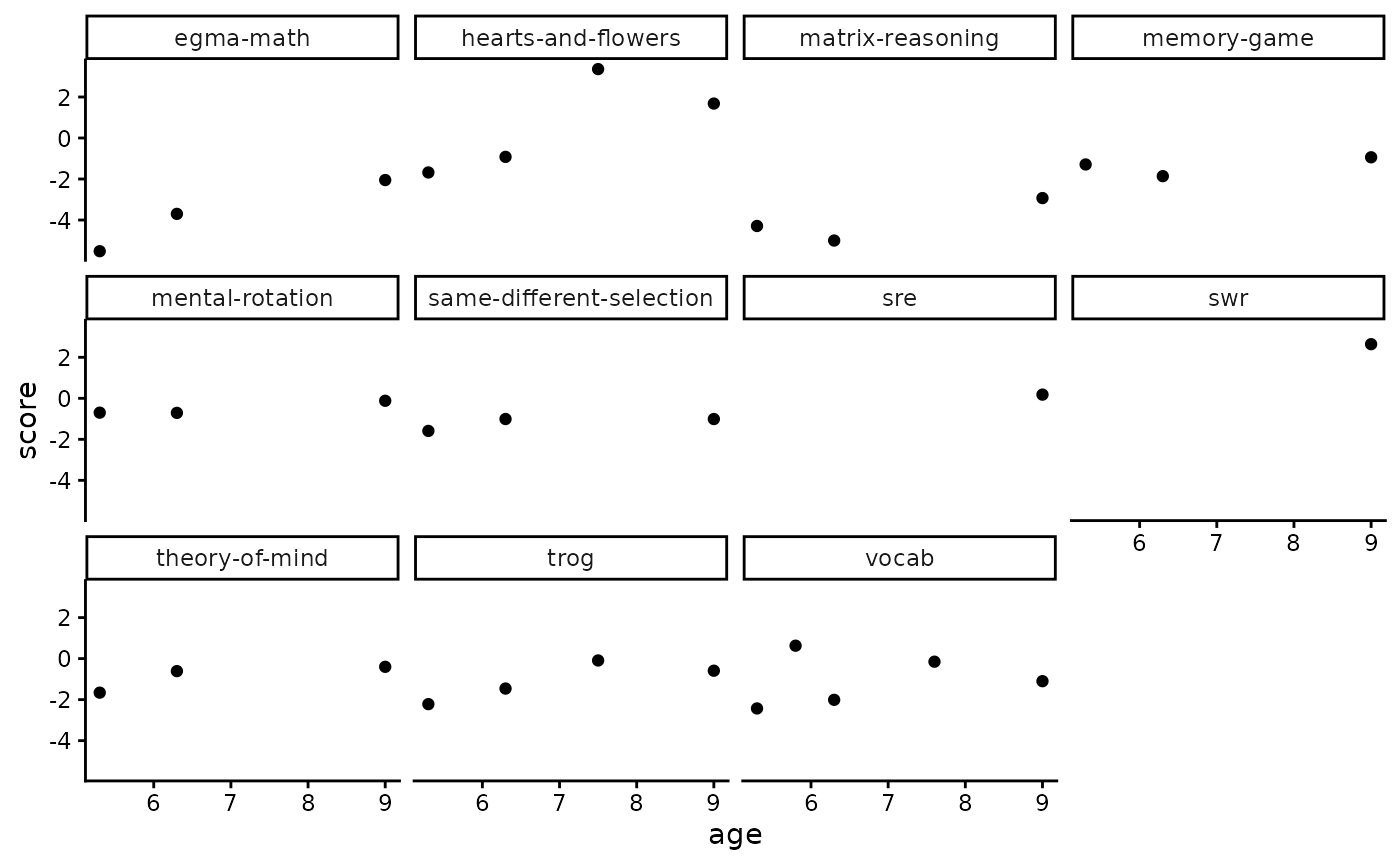
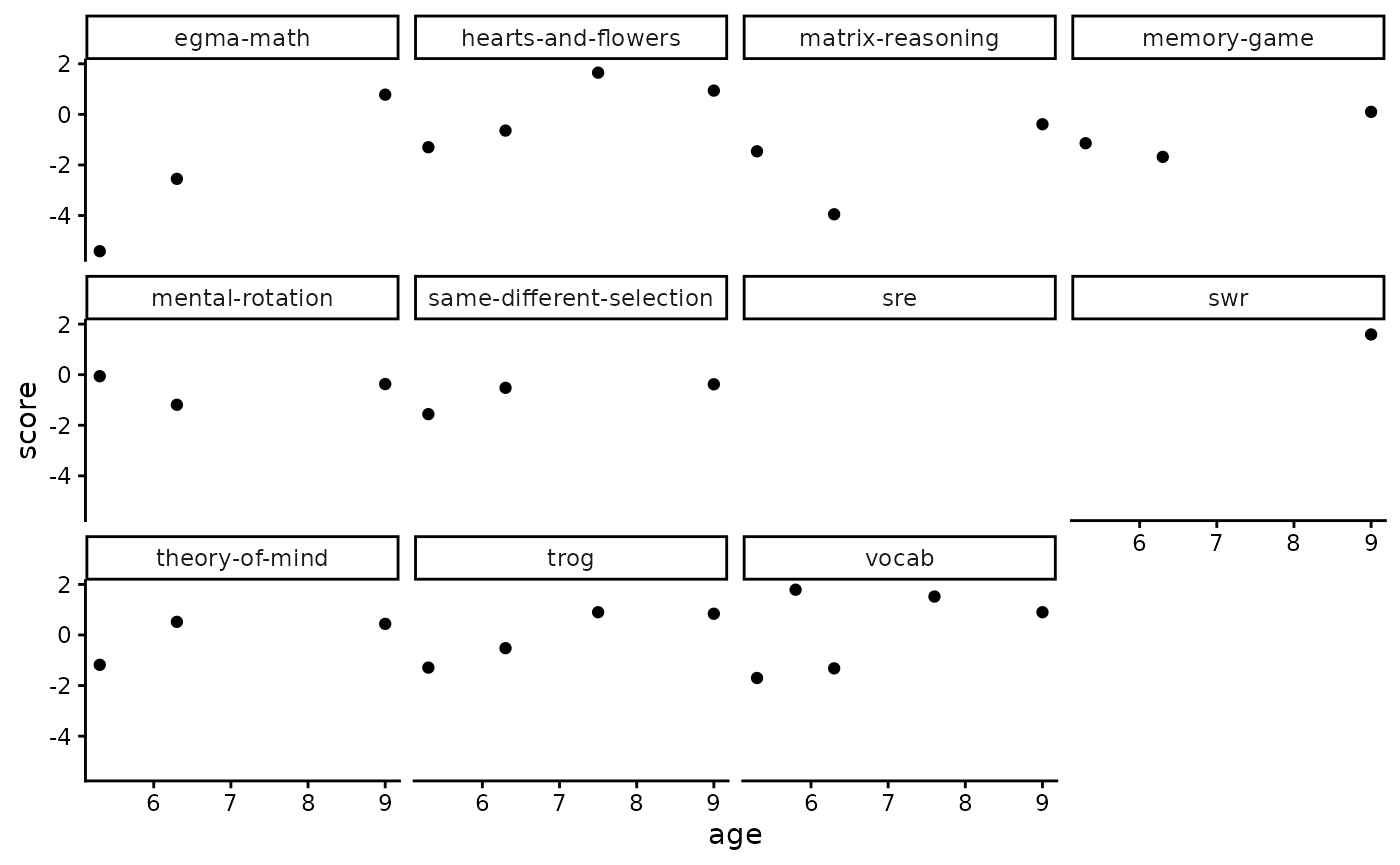
Deploying to gh-pages from @ levante-framework/levante-r@ceba726d68ee0c61f230208329d79ff890a2741c 🚀

diff --git a/reference/get_parameters.html b/reference/get_parameters.html
@@ -1,0 +1,90 @@
+<!DOCTYPE html>
+<!-- Generated by pkgdown: do not edit by hand --><html lang="en"><head><meta http-equiv="Content-Type" content="text/html; charset=UTF-8"><meta charset="utf-8"><meta http-equiv="X-UA-Compatible" content="IE=edge"><meta name="viewport" content="width=device-width, initial-scale=1, shrink-to-fit=no"><title>Get item parameters — get_parameters • levante</title><script src="../deps/jquery-3.6.0/jquery-3.6.0.min.js"></script><meta name="viewport" content="width=device-width, initial-scale=1, shrink-to-fit=no"><link href="../deps/bootstrap-5.3.8/bootstrap.min.css" rel="stylesheet"><script src="../deps/bootstrap-5.3.8/bootstrap.bundle.min.js"></script><link href="../deps/font-awesome-6.5.2/css/all.min.css" rel="stylesheet"><link href="../deps/font-awesome-6.5.2/css/v4-shims.min.css" rel="stylesheet"><script src="../deps/headroom-0.11.0/headroom.min.js"></script><script src="../deps/headroom-0.11.0/jQuery.headroom.min.js"></script><script src="../deps/bootstrap-toc-1.0.1/bootstrap-toc.min.js"></script><script src="../deps/clipboard.js-2.0.11/clipboard.min.js"></script><script src="../deps/search-1.0.0/autocomplete.jquery.min.js"></script><script src="../deps/search-1.0.0/fuse.min.js"></script><script src="../deps/search-1.0.0/mark.min.js"></script><!-- pkgdown --><script src="../pkgdown.js"></script><meta property="og:title" content="Get item parameters — get_parameters"><meta name="description" content="get_parameters() returns information about the item IRT parameters that were used for creating scores. See the rlevante documentation for more information about how to access LEVANTE datasets and codebooks."><meta property="og:description" content="get_parameters() returns information about the item IRT parameters that were used for creating scores. See the rlevante documentation for more information about how to access LEVANTE datasets and codebooks."></head><body>
+    <a href="#main" class="visually-hidden-focusable">Skip to contents</a>
+
+
+    <nav class="navbar navbar-expand-lg fixed-top bg-light" data-bs-theme="light" aria-label="Site navigation"><div class="container">
+
+    <a class="navbar-brand me-2" href="../index.html">levante</a>
+
+    <small class="nav-text text-muted me-auto" data-bs-toggle="tooltip" data-bs-placement="bottom" title="">0.1.0.9000</small>
+
+
+    <button class="navbar-toggler" type="button" data-bs-toggle="collapse" data-bs-target="#navbar" aria-controls="navbar" aria-expanded="false" aria-label="Toggle navigation">
+      <span class="navbar-toggler-icon"></span>
+    </button>
+
+    <div id="navbar" class="collapse navbar-collapse ms-3">
+      <ul class="navbar-nav me-auto"><li class="active nav-item"><a class="nav-link" href="../reference/index.html">Reference</a></li>
+<li class="nav-item dropdown">
+  <button class="nav-link dropdown-toggle" type="button" id="dropdown-articles" data-bs-toggle="dropdown" aria-expanded="false" aria-haspopup="true">Articles</button>
+  <ul class="dropdown-menu" aria-labelledby="dropdown-articles"><li><a class="dropdown-item" href="../articles/levante_walkthrough.html">levante package walkthrough</a></li>
+  </ul></li>
+      </ul><ul class="navbar-nav"><li class="nav-item"><form class="form-inline" role="search">
+ <input class="form-control" type="search" name="search-input" id="search-input" autocomplete="off" aria-label="Search site" placeholder="Search for" data-search-index="../search.json"></form></li>
+      </ul></div>
+
+
+  </div>
+</nav><div class="container template-reference-topic">
+<div class="row">
+  <main id="main" class="col-md-9"><div class="page-header">
+
+      <h1>Get item parameters</h1>
+
+      <div class="d-none name"><code>get_parameters.Rd</code></div>
+    </div>
+
+    <div class="ref-description section level2">
+    <p><code>get_parameters()</code> returns information about the item IRT parameters that were used for creating scores. See the <a href="https://levante-framework.github.io/rlevante/index.html" class="external-link">rlevante documentation</a> for more information about how to access LEVANTE datasets and codebooks.</p>
+    </div>
+
+    <div class="section level2">
+    <h2 id="ref-usage">Usage<a class="anchor" aria-label="anchor" href="#ref-usage"></a></h2>
+    <div class="sourceCode"><pre class="sourceCode r"><code><span><span class="fu">get_parameters</span><span class="op">(</span><span class="va">data_source</span>, version <span class="op">=</span> <span class="st">"current"</span><span class="op">)</span></span></code></pre></div>
+    </div>
+
+    <div class="section level2">
+    <h2 id="arguments">Arguments<a class="anchor" aria-label="anchor" href="#arguments"></a></h2>
+
+
+<dl><dt id="arg-data-source">data_source<a class="anchor" aria-label="anchor" href="#arg-data-source"></a></dt>
+<dd><p>Name of Redivis dataset</p></dd>
+
+
+<dt id="arg-version">version<a class="anchor" aria-label="anchor" href="#arg-version"></a></dt>
+<dd><p>Version of Redivis dataset</p></dd>
+
+</dl></div>
+    <div class="section level2">
+    <h2 id="value">Value<a class="anchor" aria-label="anchor" href="#value"></a></h2>
+    <p>A data frame where each row is an item</p>
+    </div>
+
+    <div class="section level2">
+    <h2 id="ref-examples">Examples<a class="anchor" aria-label="anchor" href="#ref-examples"></a></h2>
+    <div class="sourceCode"><pre class="sourceCode r"><code><span class="r-in"><span><span class="kw">if</span> <span class="op">(</span><span class="cn">FALSE</span><span class="op">)</span> <span class="op">{</span> <span class="co"># \dontrun{</span></span></span>
+<span class="r-in"><span><span class="va">parameters</span> <span class="op">&lt;-</span> <span class="fu">get_parameters</span><span class="op">(</span>data_source <span class="op">=</span> <span class="st">"levante_data_example:d0rt"</span>, version <span class="op">=</span> <span class="st">"current"</span><span class="op">)</span></span></span>
+<span class="r-in"><span><span class="op">}</span> <span class="co"># }</span></span></span>
+</code></pre></div>
+    </div>
+  </main><aside class="col-md-3"><nav id="toc" aria-label="Table of contents"><h2>On this page</h2>
+    </nav></aside></div>
+
+
+    <footer><div class="pkgdown-footer-left">
+  <p>Developed by Michael Frank, Mika Braginsky.</p>
+</div>
+
+<div class="pkgdown-footer-right">
+  <p>Site built with <a href="https://pkgdown.r-lib.org/" class="external-link">pkgdown</a> 2.2.0.</p>
+</div>
+
+    </footer></div>
+
+
+
+
+
+  </body></html>
+

diff --git a/articles/levante_walkthrough.html b/articles/levante_walkthrough.html
@@ -169,16 +169,16 @@ authentication.</p>
 <span><span class="co">#&gt; --Fetching table participants</span></span>
 <span></span>
 <span><span class="co"># Now let's do some preliminary checks on the participants data</span></span>
-<span><span class="va">participants</span> <span class="op">|&gt;</span> <span class="fu"><a href="https://dplyr.tidyverse.org/reference/count.html" class="external-link">count</a></span><span class="op">(</span><span class="va">site</span>, sort <span class="op">=</span> <span class="cn">TRUE</span><span class="op">)</span> <span class="co"># returns the number of participants from each site — the levante-data-example and private site data releases only contain data from a single site, but the public data releases contain many sites/datasets stapled together</span></span>
+<span><span class="va">participants</span> <span class="op">|&gt;</span> <span class="fu"><a href="https://dplyr.tidyverse.org/reference/count.html" class="external-link">count</a></span><span class="op">(</span><span class="va">dataset</span>, sort <span class="op">=</span> <span class="cn">TRUE</span><span class="op">)</span> <span class="co"># returns the number of participants from each dataset — the levante-data-example and private dataset data releases only contain data from a single dataset, but the public data releases contain multiple datasets stapled together</span></span>
 <span><span class="co">#&gt; <span style="color: #949494;"># A tibble: 1 × 2</span></span></span>
-<span><span class="co">#&gt;   site                n</span></span>
-<span><span class="co">#&gt;   <span style="color: #949494; font-style: italic;">&lt;chr&gt;</span>           <span style="color: #949494; font-style: italic;">&lt;int&gt;</span></span></span>
-<span><span class="co">#&gt; <span style="color: #BCBCBC;">1</span> pilot_mpieva_de    15</span></span></code></pre></div>
+<span><span class="co">#&gt;   dataset                  n</span></span>
+<span><span class="co">#&gt;   <span style="color: #949494; font-style: italic;">&lt;chr&gt;</span>                <span style="color: #949494; font-style: italic;">&lt;int&gt;</span></span></span>
+<span><span class="co">#&gt; <span style="color: #BCBCBC;">1</span> pilot_mpieva_de_main    15</span></span></code></pre></div>
 <p>Use <code><a href="../reference/get_scores.html">get_scores()</a></code> to obtain scored cognitive task
 data.</p>
 <div class="sourceCode" id="cb3"><pre class="downlit sourceCode r">
 <code class="sourceCode R"><span><span class="co"># Pull scored data from Redivis and save it to a data frame called "scores"</span></span>
-<span><span class="va">scores</span> <span class="op">&lt;-</span> <span class="fu"><a href="../reference/get_scores.html">get_scores</a></span><span class="op">(</span>data_source <span class="op">=</span> <span class="st">"levante-data-example:d0rt"</span>, version <span class="op">=</span> <span class="st">"current"</span><span class="op">)</span> </span>
+<span><span class="va">scores</span> <span class="op">&lt;-</span> <span class="fu"><a href="../reference/get_scores.html">get_scores</a></span><span class="op">(</span>data_source <span class="op">=</span> <span class="st">"levante-data-example:d0rt"</span>, version <span class="op">=</span> <span class="st">"current"</span><span class="op">)</span></span>
 <span><span class="co">#&gt; Fetching data for levante-data-example:d0rt</span></span>
 <span><span class="co">#&gt; --Fetching table scores</span></span>
 <span></span>
@@ -202,7 +202,9 @@ data.</p>
 <code class="sourceCode R"><span><span class="co"># This plot returns scores by age fro each task.</span></span>
 <span><span class="fu"><a href="https://ggplot2.tidyverse.org/reference/ggplot.html" class="external-link">ggplot</a></span><span class="op">(</span><span class="va">scores</span>, <span class="fu"><a href="https://ggplot2.tidyverse.org/reference/aes.html" class="external-link">aes</a></span><span class="op">(</span>x <span class="op">=</span> <span class="va">age</span>, y <span class="op">=</span> <span class="va">score</span><span class="op">)</span><span class="op">)</span> <span class="op">+</span></span>
 <span>  <span class="fu"><a href="https://ggplot2.tidyverse.org/reference/facet_wrap.html" class="external-link">facet_wrap</a></span><span class="op">(</span><span class="fu"><a href="https://dplyr.tidyverse.org/reference/vars.html" class="external-link">vars</a></span><span class="op">(</span><span class="va">task_id</span><span class="op">)</span><span class="op">)</span> <span class="op">+</span></span>
-<span>  <span class="fu"><a href="https://ggplot2.tidyverse.org/reference/geom_point.html" class="external-link">geom_point</a></span><span class="op">(</span><span class="op">)</span></span></code></pre></div>
+<span>  <span class="fu"><a href="https://ggplot2.tidyverse.org/reference/geom_point.html" class="external-link">geom_point</a></span><span class="op">(</span><span class="op">)</span></span>
+<span><span class="co">#&gt; Warning: Removed 1 row containing missing values or values outside the scale range</span></span>
+<span><span class="co">#&gt; (`geom_point()`).</span></span></code></pre></div>
 <p><img src="levante_walkthrough_files/figure-html/unnamed-chunk-4-1.png" class="r-plt" alt="" width="700"></p>
 <p>Use <code><a href="../reference/get_trials.html">get_trials()</a></code> to access trial-level data.</p>
 <div class="sourceCode" id="cb5"><pre class="downlit sourceCode r">
@@ -213,11 +215,11 @@ data.</p>
 <span><span class="co">#&gt; --Fetching table trials</span></span>
 <span></span>
 <span><span class="co"># Now let's do some preliminary checks on the trials data</span></span>
-<span><span class="va">trials</span> <span class="op">|&gt;</span> <span class="fu"><a href="https://dplyr.tidyverse.org/reference/count.html" class="external-link">count</a></span><span class="op">(</span><span class="va">site</span>, sort <span class="op">=</span> <span class="cn">TRUE</span><span class="op">)</span> <span class="co"># returns the number of trials per site</span></span>
+<span><span class="va">trials</span> <span class="op">|&gt;</span> <span class="fu"><a href="https://dplyr.tidyverse.org/reference/count.html" class="external-link">count</a></span><span class="op">(</span><span class="va">dataset</span>, sort <span class="op">=</span> <span class="cn">TRUE</span><span class="op">)</span> <span class="co"># returns the number of trials per dataset</span></span>
 <span><span class="co">#&gt; <span style="color: #949494;"># A tibble: 1 × 2</span></span></span>
-<span><span class="co">#&gt;   site                n</span></span>
-<span><span class="co">#&gt;   <span style="color: #949494; font-style: italic;">&lt;chr&gt;</span>           <span style="color: #949494; font-style: italic;">&lt;int&gt;</span></span></span>
-<span><span class="co">#&gt; <span style="color: #BCBCBC;">1</span> pilot_mpieva_de  <span style="text-decoration: underline;">1</span>320</span></span>
+<span><span class="co">#&gt;   dataset                  n</span></span>
+<span><span class="co">#&gt;   <span style="color: #949494; font-style: italic;">&lt;chr&gt;</span>                <span style="color: #949494; font-style: italic;">&lt;int&gt;</span></span></span>
+<span><span class="co">#&gt; <span style="color: #BCBCBC;">1</span> pilot_mpieva_de_main  <span style="text-decoration: underline;">1</span>323</span></span>
 <span></span>
 <span><span class="va">trials</span> <span class="op">|&gt;</span> <span class="fu"><a href="https://dplyr.tidyverse.org/reference/count.html" class="external-link">count</a></span><span class="op">(</span><span class="va">task_id</span>, sort <span class="op">=</span> <span class="cn">TRUE</span><span class="op">)</span> <span class="co"># returns the number of trials per task</span></span>
 <span><span class="co">#&gt; <span style="color: #949494;"># A tibble: 11 × 2</span></span></span>
@@ -226,9 +228,9 @@ data.</p>
 <span><span class="co">#&gt; <span style="color: #BCBCBC;"> 1</span> vocab                      242</span></span>
 <span><span class="co">#&gt; <span style="color: #BCBCBC;"> 2</span> hearts-and-flowers         236</span></span>
 <span><span class="co">#&gt; <span style="color: #BCBCBC;"> 3</span> trog                       153</span></span>
-<span><span class="co">#&gt; <span style="color: #BCBCBC;"> 4</span> egma-math                  124</span></span>
+<span><span class="co">#&gt; <span style="color: #BCBCBC;"> 4</span> egma-math                  125</span></span>
 <span><span class="co">#&gt; <span style="color: #BCBCBC;"> 5</span> swr                        120</span></span>
-<span><span class="co">#&gt; <span style="color: #BCBCBC;"> 6</span> matrix-reasoning           106</span></span>
+<span><span class="co">#&gt; <span style="color: #BCBCBC;"> 6</span> matrix-reasoning           108</span></span>
 <span><span class="co">#&gt; <span style="color: #BCBCBC;"> 7</span> theory-of-mind             102</span></span>
 <span><span class="co">#&gt; <span style="color: #BCBCBC;"> 8</span> same-different-selection    85</span></span>
 <span><span class="co">#&gt; <span style="color: #BCBCBC;"> 9</span> mental-rotation             68</span></span>
@@ -242,33 +244,34 @@ data.</p>
 <span><span class="co">#&gt; --Fetching table surveys</span></span>
 <span></span>
 <span><span class="co"># Now let's do some preliminary checks on the trials data</span></span>
-<span><span class="va">surveys</span> <span class="op">|&gt;</span> <span class="fu"><a href="https://dplyr.tidyverse.org/reference/count.html" class="external-link">count</a></span><span class="op">(</span><span class="va">site</span>, sort <span class="op">=</span> <span class="cn">TRUE</span><span class="op">)</span> <span class="co"># returns the number of surveys per site</span></span>
+<span><span class="va">surveys</span> <span class="op">|&gt;</span> <span class="fu"><a href="https://dplyr.tidyverse.org/reference/count.html" class="external-link">count</a></span><span class="op">(</span><span class="va">dataset</span>, sort <span class="op">=</span> <span class="cn">TRUE</span><span class="op">)</span> <span class="co"># returns the number of surveys per dataset</span></span>
 <span><span class="co">#&gt; <span style="color: #949494;"># A tibble: 1 × 2</span></span></span>
-<span><span class="co">#&gt;   site                n</span></span>
-<span><span class="co">#&gt;   <span style="color: #949494; font-style: italic;">&lt;chr&gt;</span>           <span style="color: #949494; font-style: italic;">&lt;int&gt;</span></span></span>
-<span><span class="co">#&gt; <span style="color: #BCBCBC;">1</span> pilot_mpieva_de    69</span></span></code></pre></div>
-<p>Use <code><a href="../reference/get_item_parameters.html">get_item_parameters()</a></code> to access the IRT item
-parameters used in LEVANTE scoring.</p>
+<span><span class="co">#&gt;   dataset                  n</span></span>
+<span><span class="co">#&gt;   <span style="color: #949494; font-style: italic;">&lt;chr&gt;</span>                <span style="color: #949494; font-style: italic;">&lt;int&gt;</span></span></span>
+<span><span class="co">#&gt; <span style="color: #BCBCBC;">1</span> pilot_mpieva_de_main    63</span></span></code></pre></div>
+<p>Use <code><a href="../reference/get_parameters.html">get_parameters()</a></code> to access the IRT item parameters
+used in LEVANTE scoring.</p>
 <div class="sourceCode" id="cb7"><pre class="downlit sourceCode r">
 <code class="sourceCode R"><span><span class="co"># Pull up-to-date item parameters from Redivis</span></span>
-<span><span class="va">item_parameters</span> <span class="op">&lt;-</span> <span class="fu"><a href="../reference/get_item_parameters.html">get_item_parameters</a></span><span class="op">(</span><span class="op">)</span></span>
-<span><span class="co">#&gt; Fetching item parameters</span></span>
+<span><span class="va">item_parameters</span> <span class="op">&lt;-</span> <span class="fu"><a href="../reference/get_parameters.html">get_parameters</a></span><span class="op">(</span>data_source <span class="op">=</span> <span class="st">"levante-data-example:d0rt"</span>, version <span class="op">=</span> <span class="st">"current"</span><span class="op">)</span></span>
+<span><span class="co">#&gt; Fetching data for levante-data-example:d0rt</span></span>
+<span><span class="co">#&gt; --Fetching table parameters</span></span>
 <span></span>
-<span><span class="va">item_parameters</span> <span class="op">|&gt;</span> <span class="fu"><a href="https://dplyr.tidyverse.org/reference/count.html" class="external-link">count</a></span><span class="op">(</span><span class="va">item_task</span>, sort <span class="op">=</span> <span class="cn">TRUE</span><span class="op">)</span> <span class="co"># returns the number of parameters per task</span></span>
+<span><span class="va">item_parameters</span> <span class="op">|&gt;</span> <span class="fu"><a href="https://dplyr.tidyverse.org/reference/count.html" class="external-link">count</a></span><span class="op">(</span><span class="va">task_id</span>, sort <span class="op">=</span> <span class="cn">TRUE</span><span class="op">)</span> <span class="co"># returns the number of parameters per task</span></span>
 <span><span class="co">#&gt; <span style="color: #949494;"># A tibble: 11 × 2</span></span></span>
-<span><span class="co">#&gt;    item_task     n</span></span>
-<span><span class="co">#&gt;    <span style="color: #949494; font-style: italic;">&lt;chr&gt;</span>     <span style="color: #949494; font-style: italic;">&lt;int&gt;</span></span></span>
-<span><span class="co">#&gt; <span style="color: #BCBCBC;"> 1</span> swr        <span style="text-decoration: underline;">1</span>383</span></span>
-<span><span class="co">#&gt; <span style="color: #BCBCBC;"> 2</span> vocab       470</span></span>
-<span><span class="co">#&gt; <span style="color: #BCBCBC;"> 3</span> math        359</span></span>
-<span><span class="co">#&gt; <span style="color: #BCBCBC;"> 4</span> tom         171</span></span>
-<span><span class="co">#&gt; <span style="color: #BCBCBC;"> 5</span> matrix      153</span></span>
-<span><span class="co">#&gt; <span style="color: #BCBCBC;"> 6</span> pa          110</span></span>
-<span><span class="co">#&gt; <span style="color: #BCBCBC;"> 7</span> trog         99</span></span>
-<span><span class="co">#&gt; <span style="color: #BCBCBC;"> 8</span> mg           24</span></span>
-<span><span class="co">#&gt; <span style="color: #BCBCBC;"> 9</span> sds          17</span></span>
-<span><span class="co">#&gt; <span style="color: #BCBCBC;">10</span> mrot         12</span></span>
-<span><span class="co">#&gt; <span style="color: #BCBCBC;">11</span> hf           10</span></span></code></pre></div>
+<span><span class="co">#&gt;    task_id                      n</span></span>
+<span><span class="co">#&gt;    <span style="color: #949494; font-style: italic;">&lt;chr&gt;</span>                    <span style="color: #949494; font-style: italic;">&lt;int&gt;</span></span></span>
+<span><span class="co">#&gt; <span style="color: #BCBCBC;"> 1</span> swr                       <span style="text-decoration: underline;">2</span>776</span></span>
+<span><span class="co">#&gt; <span style="color: #BCBCBC;"> 2</span> vocab                      912</span></span>
+<span><span class="co">#&gt; <span style="color: #BCBCBC;"> 3</span> egma-math                  718</span></span>
+<span><span class="co">#&gt; <span style="color: #BCBCBC;"> 4</span> theory-of-mind             398</span></span>
+<span><span class="co">#&gt; <span style="color: #BCBCBC;"> 5</span> matrix-reasoning           302</span></span>
+<span><span class="co">#&gt; <span style="color: #BCBCBC;"> 6</span> pa                         220</span></span>
+<span><span class="co">#&gt; <span style="color: #BCBCBC;"> 7</span> trog                       194</span></span>
+<span><span class="co">#&gt; <span style="color: #BCBCBC;"> 8</span> memory-game                 48</span></span>
+<span><span class="co">#&gt; <span style="color: #BCBCBC;"> 9</span> mental-rotation             40</span></span>
+<span><span class="co">#&gt; <span style="color: #BCBCBC;">10</span> same-different-selection    30</span></span>
+<span><span class="co">#&gt; <span style="color: #BCBCBC;">11</span> hearts-and-flowers          20</span></span></code></pre></div>
 <p>Finally, researchers accessing their own LEVANTE data can use
 <code>get_raw_data()</code> to access additional tables within private
 datasets. <code>get_raw_data()</code> is a general function that can

diff --git a/reference/index.html b/reference/index.html
@@ -45,7 +45,7 @@
 
       <dl><dt>
 
-          <code><a href="get_item_parameters.html">get_item_parameters()</a></code>
+          <code><a href="get_parameters.html">get_parameters()</a></code>
 
         </dt>
         <dd>Get item parameters</dd>

diff --git a/articles/levante_walkthrough.md b/articles/levante_walkthrough.md
@@ -70,11 +70,11 @@ participants <- get_participants(data_source = "levante-data-example:d0rt", vers
 #> --Fetching table participants
 
 # Now let's do some preliminary checks on the participants data
-participants |> count(site, sort = TRUE) # returns the number of participants from each site — the levante-data-example and private site data releases only contain data from a single site, but the public data releases contain many sites/datasets stapled together
+participants |> count(dataset, sort = TRUE) # returns the number of participants from each dataset — the levante-data-example and private dataset data releases only contain data from a single dataset, but the public data releases contain multiple datasets stapled together
 #> # A tibble: 1 × 2
-#>   site                n
-#>   <chr>           <int>
-#> 1 pilot_mpieva_de    15
+#>   dataset                  n
+#>   <chr>                <int>
+#> 1 pilot_mpieva_de_main    15
 ```
 
 Use
@@ -84,7 +84,7 @@ to obtain scored cognitive task data.
 ``` r
 
 # Pull scored data from Redivis and save it to a data frame called "scores"
-scores <- get_scores(data_source = "levante-data-example:d0rt", version = "current") 
+scores <- get_scores(data_source = "levante-data-example:d0rt", version = "current")
 #> Fetching data for levante-data-example:d0rt
 #> --Fetching table scores
 
@@ -112,6 +112,8 @@ scores |> count(task_id, sort = TRUE) # returns the number of scores for each ta
 ggplot(scores, aes(x = age, y = score)) +
   facet_wrap(vars(task_id)) +
   geom_point()
+#> Warning: Removed 1 row containing missing values or values outside the scale range
+#> (`geom_point()`).
 ```
 
 ![](levante_walkthrough_files/figure-html/unnamed-chunk-4-1.png)
@@ -129,11 +131,11 @@ trials <- get_trials(data_source = "levante-data-example:d0rt", version = "curre
 #> --Fetching table trials
 
 # Now let's do some preliminary checks on the trials data
-trials |> count(site, sort = TRUE) # returns the number of trials per site
+trials |> count(dataset, sort = TRUE) # returns the number of trials per dataset
 #> # A tibble: 1 × 2
-#>   site                n
-#>   <chr>           <int>
-#> 1 pilot_mpieva_de  1320
+#>   dataset                  n
+#>   <chr>                <int>
+#> 1 pilot_mpieva_de_main  1323
 
 trials |> count(task_id, sort = TRUE) # returns the number of trials per task
 #> # A tibble: 11 × 2
@@ -142,9 +144,9 @@ trials |> count(task_id, sort = TRUE) # returns the number of trials per task
 #>  1 vocab                      242
 #>  2 hearts-and-flowers         236
 #>  3 trog                       153
-#>  4 egma-math                  124
+#>  4 egma-math                  125
 #>  5 swr                        120
-#>  6 matrix-reasoning           106
+#>  6 matrix-reasoning           108
 #>  7 theory-of-mind             102
 #>  8 same-different-selection    85
 #>  9 mental-rotation             68
@@ -164,38 +166,39 @@ surveys <- get_surveys(data_source = "levante-data-example:d0rt", version = "cur
 #> --Fetching table surveys
 
 # Now let's do some preliminary checks on the trials data
-surveys |> count(site, sort = TRUE) # returns the number of surveys per site
+surveys |> count(dataset, sort = TRUE) # returns the number of surveys per dataset
 #> # A tibble: 1 × 2
-#>   site                n
-#>   <chr>           <int>
-#> 1 pilot_mpieva_de    69
+#>   dataset                  n
+#>   <chr>                <int>
+#> 1 pilot_mpieva_de_main    63
 ```
 
 Use
-[`get_item_parameters()`](https://levante-framework.github.io/levante-r/reference/get_item_parameters.md)
+[`get_parameters()`](https://levante-framework.github.io/levante-r/reference/get_parameters.md)
 to access the IRT item parameters used in LEVANTE scoring.
 
 ``` r
 
 # Pull up-to-date item parameters from Redivis
-item_parameters <- get_item_parameters()
-#> Fetching item parameters
+item_parameters <- get_parameters(data_source = "levante-data-example:d0rt", version = "current")
+#> Fetching data for levante-data-example:d0rt
+#> --Fetching table parameters
 
-item_parameters |> count(item_task, sort = TRUE) # returns the number of parameters per task
+item_parameters |> count(task_id, sort = TRUE) # returns the number of parameters per task
 #> # A tibble: 11 × 2
-#>    item_task     n
-#>    <chr>     <int>
-#>  1 swr        1383
-#>  2 vocab       470
-#>  3 math        359
-#>  4 tom         171
-#>  5 matrix      153
-#>  6 pa          110
-#>  7 trog         99
-#>  8 mg           24
-#>  9 sds          17
-#> 10 mrot         12
-#> 11 hf           10
+#>    task_id                      n
+#>    <chr>                    <int>
+#>  1 swr                       2776
+#>  2 vocab                      912
+#>  3 egma-math                  718
+#>  4 theory-of-mind             398
+#>  5 matrix-reasoning           302
+#>  6 pa                         220
+#>  7 trog                       194
+#>  8 memory-game                 48
+#>  9 mental-rotation             40
+#> 10 same-different-selection    30
+#> 11 hearts-and-flowers          20
 ```
 
 Finally, researchers accessing their own LEVANTE data can use

diff --git a/reference/get_parameters.md b/reference/get_parameters.md
@@ -1,0 +1,34 @@
+# Get item parameters
+
+`get_parameters()` returns information about the item IRT parameters
+that were used for creating scores. See the [rlevante
+documentation](https://levante-framework.github.io/rlevante/index.html)
+for more information about how to access LEVANTE datasets and codebooks.
+
+## Usage
+
+``` r
+get_parameters(data_source, version = "current")
+```
+
+## Arguments
+
+- data_source:
+
+  Name of Redivis dataset
+
+- version:
+
+  Version of Redivis dataset
+
+## Value
+
+A data frame where each row is an item
+
+## Examples
+
+``` r
+if (FALSE) { # \dontrun{
+parameters <- get_parameters(data_source = "levante_data_example:d0rt", version = "current")
+} # }
+```

diff --git a/reference/index.md b/reference/index.md
@@ -2,7 +2,7 @@
 
 ## All functions
 
-- [`get_item_parameters()`](https://levante-framework.github.io/levante-r/reference/get_item_parameters.md)
+- [`get_parameters()`](https://levante-framework.github.io/levante-r/reference/get_parameters.md)
   : Get item parameters
 - [`get_participants()`](https://levante-framework.github.io/levante-r/reference/get_participants.md)
   : Get participants